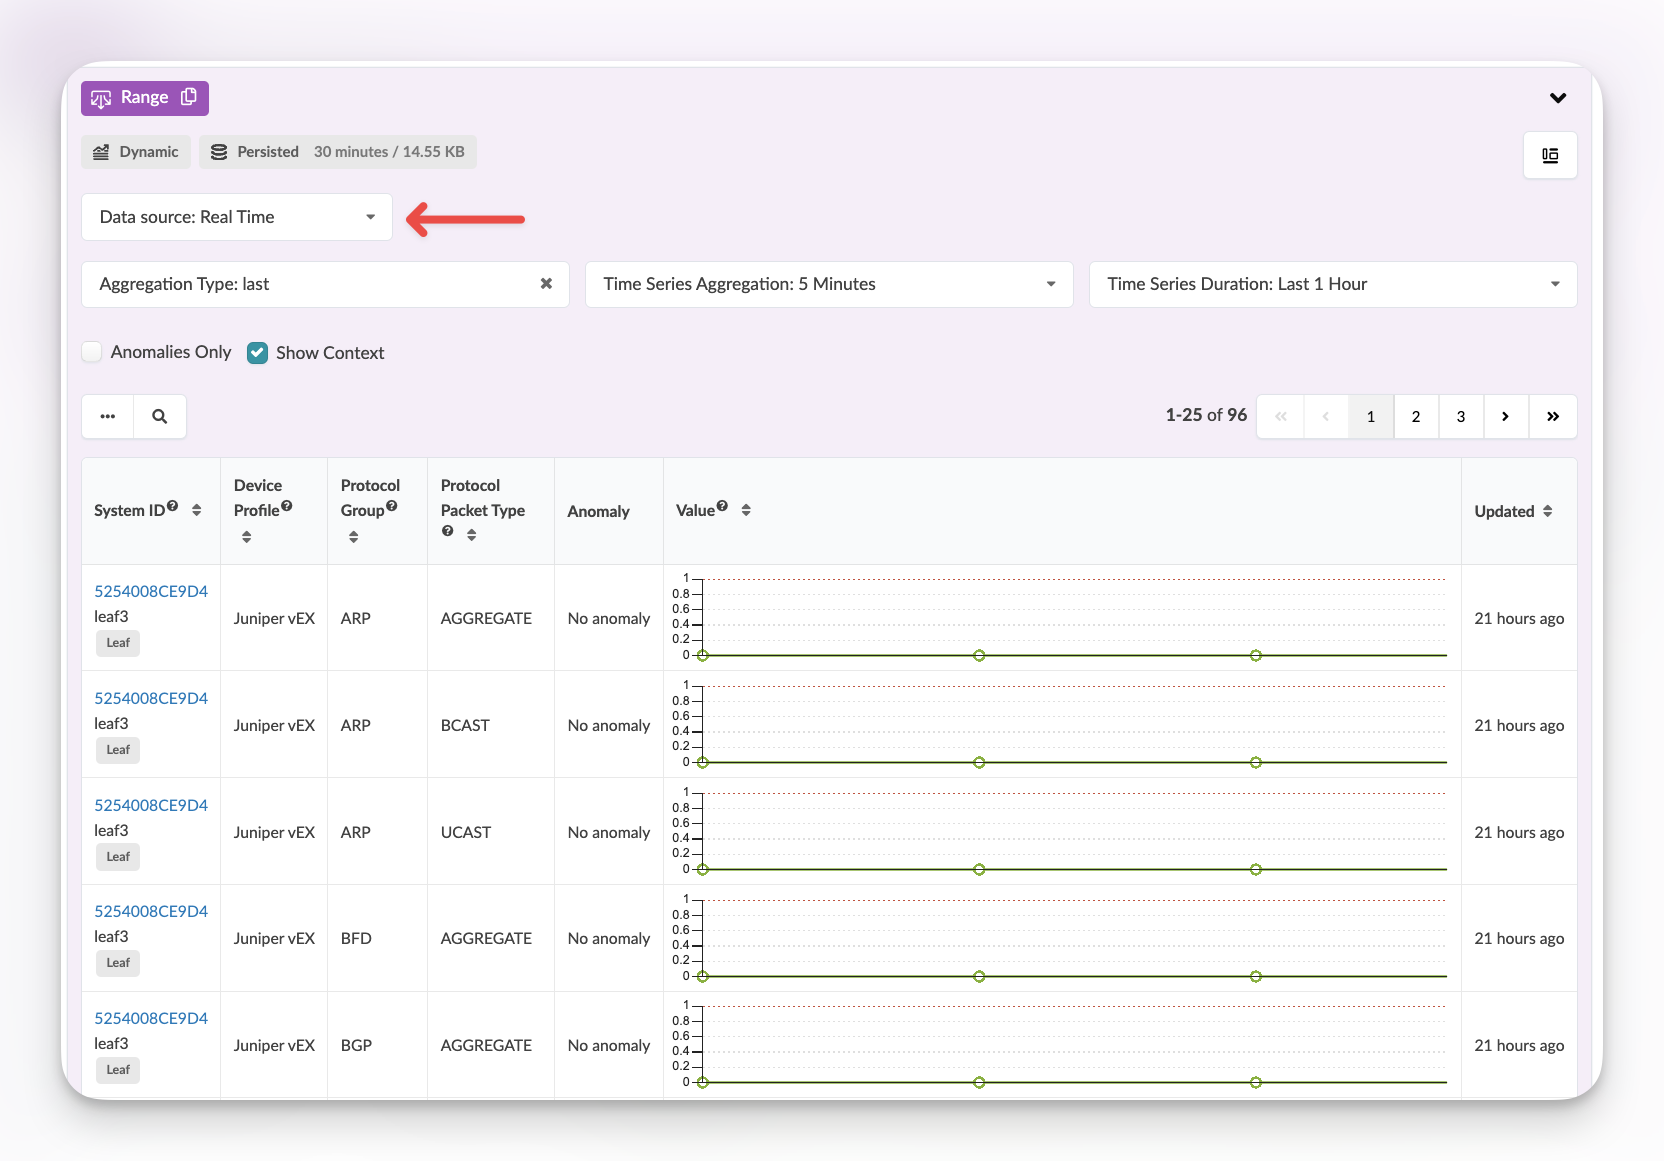
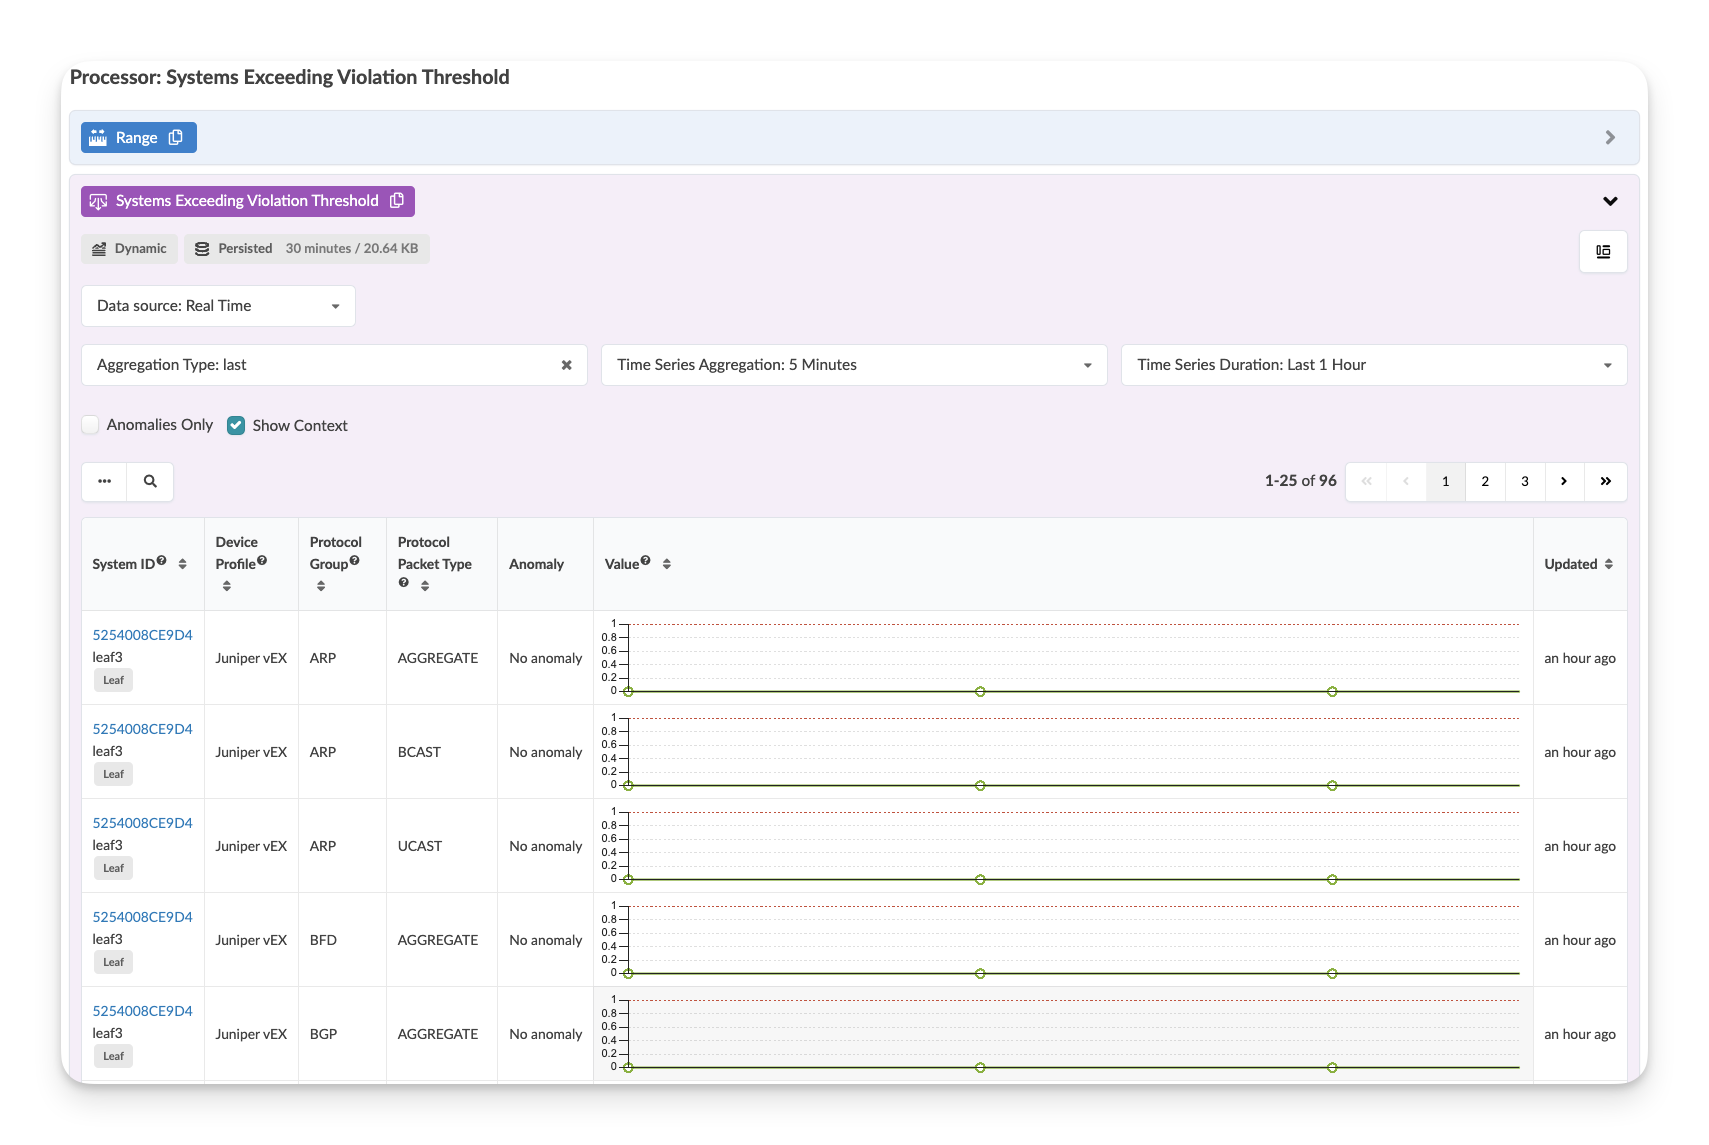
Updating Dashboard and README based in PR comments and Mehdi Call

diff --git a/release_5.0.0/DDoS_Protection_Protocols/README.md b/release_5.0.0/DDoS_Protection_Protocols/README.md
@@ -863,19 +863,27 @@ int(re_match('\d+', value))
 > Probes are imported as part of the dashboard `.json` file.
 
 
-#### Probe pipeline structure
+#### Probe Pipeline Structure
 
 <br>
 
-<img src="Images/DDoS-Protection-Protocols_Probe.png" width="25%" height="25%">
+<img src="Images/DDoS-Protection-Protocols_Probe.png" width="80%" height="80%">
+
+The probe pipeline consists of a Source processor and four processing stages that perform distinct tasks for DDoS protection monitoring.
 
 <br>
 
-#### Probe processors details
+#### Probe Processors Details
 
-Source Processor configuration:
+**Source Processor Configuration:**
 
 <img src="Images/DDoS-Protection-Protocols_Probe_Source_Processor.png" width="80%" height="80%">
+
+The Source processor performs a graph query selecting all systems in the current blueprint that are deployed with roles: leaf, access, spine, or super spine. Additional device profile information is incorporated using:
+- Device profile data (labeled as 'DP' in the query)
+- Static context keys with:
+  - Column: device_profile
+  - Value: Extracted from DP.label (wrapped in string format)
 
 <br>
 
@@ -885,83 +893,117 @@ Output stage:
 
 <br>
 
-To implement the anomaly raising logic for reboot in last **1h** / **1 day** / **1 week** without duplicating the anomalies (i.e having a device which rebooted 45mn ago to appear in both 1h and 1day) we will configure the Range check processors in secitons: one section for uptime <= `60` mn, a second section for uptime > `60` mn and <= `1440` mn (total minutes count for a **day**) and a third section for uptime > `1440` mn and <= `10080` mn (total minutes count for a **week**).
+**Match Count Processor Configuration:**
 
-<br>
+<img src="Images/DDoS-Protection-Protocols_Match_Count_Change.png" width="80%" height="80%">
 
-`Periodic_Change` processor configuration to measure the increments of the violations count between two colleciton cycles, i.e two telemetry collections intervals. 
-
-<img src="Images/DDoS-Protection-Protocols_Probe_Periodic_Change.png" width="80%" height="80%">
-
-<br>
-
-Output stage:
-
-<img src="Images/DDoS-Protection-Protocols_Probe_Periodic_Change_Output.png" width="80%" height="80%">
-
-<br>
-
-`Range` processor configuration to raise anomaly for device for which the violation count did increment in the last colleciton cycle.
-
-<img src="Images/DDoS-Protection-Protocols_Probe_Range.png" width="80%" height="80%">
+This processor monitors DDoS protection filter states on Juniper switches:
+- Tracks states: OK or Violation (VIOL)
+- Counts violations across different control plane packet types per switch
+- Measures increments between collection cycles
 
 <br>
 
 Output stage:
 
-<img src="Images/DDoS-Protection-Protocols_Probe_Range_Output.png" width="80%" height="80%">
+<img src="Images/DDoS-Protection-Protocols_Probe_Match_Count_Output.png" width="80%" height="80%">
 
 <br>
 
-**Match Count**  processor configuration to group by system and protocol group, reducing the about of data:
+**Match String Processor Configuration:**
 
-![DDoS-Protection-Protocols_Probe_Match](Images/DDoS-Protection-Protocols_Probe_Matc.png)
+<img src="Images/DDoS-Protection-Protocols_Probe_Match_String.png" width="80%" height="80%">
+
+This processor:
+- Monitors the state from the source processor
+- Flags as 'true' if any control plane protection filters enter violation state
+- Does not generate anomalies at this stage
+
+<br>
 
 Output stage:
 
-![DDoS-Protection-Protocols_Probe_Match_Output](Images/DDoS-Protection-Protocols_Probe_Match_Output.png)
+<img src="Images/DDoS-Protection-Protocols_Probe_Match_String_Output.png" width="80%" height="80%">
 
-> **Note**  
-> This stage is not used in our example widgets
+<br>
+
+**Periodic Change Processor Configuration:**
+
+![DDoS-Protection-Protocols_Probe_Periodic_Change](Images/DDoS-Protection-Protocols_Probe_Periodic_Change.png)
+
+This processor:
+- Groups data by system and protocol group
+- Feeds into the Range processor
+- Monitors changes in violation count
+
+Output stage:
+
+![DDoS-Protection-Protocols_Probe_Periodic_Change_Output](Images/DDoS-Protection-Protocols_Probe_Periodic_Change_Output.png)
+
+**Range Processor Configuration:**
+
+![DDoS-Protection-Protocols_Probe_Range](Images/DDoS-Protection-Protocols_Probe_Range.png)
+
+This processor:
+- Monitors violation count changes
+- Raises anomalies when count ≥ 1
+- Example: Raises anomaly if SSH control plane protection filter violations increment from 0 to 1
+
+Output stage:
+
+![DDoS-Protection-Protocols_Probe_Range_Output](Images/DDoS-Protection-Protocols_Probe_Range_Output.png)
+
+**Note:** Several stages in this probe have anomaly metric log retention enabled, allowing data to be stored in the metric DB for time series analysis.
+
 
 ### Dashboards
 
-The "Control Plane DDoS Protection" dashboard provides comprehensive DDoS protection monitoring through three main widgets:
+The "DDoS Protection Protocols" dashboard provides a comprehensive view of DDoS protection monitoring through these primary widgets:
 
-1. "All Active Control Planes Types"
-   - Real-time view of protocols with active traffic
-   - Filter: `Packets_Per_Second > 0`
-   - Displays:
+1. "Count of Protocols in Violation State grouped per System (Real-Time)"
+   - Shows real-time status of devices with violations
+   - Only displays non-zero violation counts to reduce noise
+   - Displays as fuel gauges for quick visual reference
+   - Filter: Shows only systems with active violations
+   - Key metrics:
      - System ID
-     - Device Profile
-     - Protocol Group/Type
-     - Packet Statistics
-     - Violation Count
-     - State
+     - Total Count of active control planes
+     - The number that are in the violation state per system
 
 ![DDoS-Protection-Protocols_Widget_1](Images/DDoS-Protection-Protocols_Widget_1.png)
 
-2. "DDoS Protection Violation Changes - 1Min"
-   - Shows recent violation changes
-   - Anomaly-focused view
-   - Real-time violation tracking
-   - Protocol and device correlation
+2. "Breakdown of protocols in violation state (Real-Time)"
+   - Detailed view of systems in violation state
+   - Shows correlation between discards and violations
+   - Displays violation thresholds and current counts
+   - Example: Can show 600K discards resulting in 12 violations
+   - Metrics include:
+     - Violation Count
+     - Packet Statistics
+     - Protocol Details
 
 ![DDoS-Protection-Protocols_Widget_2](Images/DDoS-Protection-Protocols_Widget_2.png)
 
-3. "DDoS Protection Violation Changes History - 24Hrs"
-   - Historical view spanning 24 hours
-   - Aggregation period: 300 seconds
-   - Context-enabled for trend analysis
-   - System and protocol grouping
+3. "Systems Exceeding Violation Threshold - Last 7 days"
+   - Historical view of violation states
+   - Aggregation: 1-hour intervals
+   - Shows discrete state changes (OK/VIOL)
+   - Retention period: 7 days
+   - Enables trend analysis and pattern identification
 
 ![DDoS-Protection-Protocols_Widget_3](Images/DDoS-Protection-Protocols_Widget_3.png)
 
+Usage Notes:
+- In normal conditions, widgets may show "No data" indicating no violations
+- Users can drill down from summary views to detailed information
+- Historical views maintain visibility of past events after real-time alerts clear
+- Dashboard designed to minimize alert fatigue while ensuring visibility of actual violations
+- Filters persist when drilling down from widgets to probes
 
-Dashboard Layout:
-- 2x2 grid configuration
-- Top: Active protocols monitor
-- Bottom left: Real-time violations
-- Bottom right: Historical analysis
+
+Key Dashboard Features:
+- Left side widgets focus on real-time monitoring
+- Right side provides historical perspective
+- Default view shows only active violations to reduce noise
 
 ![DDoS-Protection-Protocols_Dashboard](Images/DDoS-Protection-Protocols_Dashboard.png)
